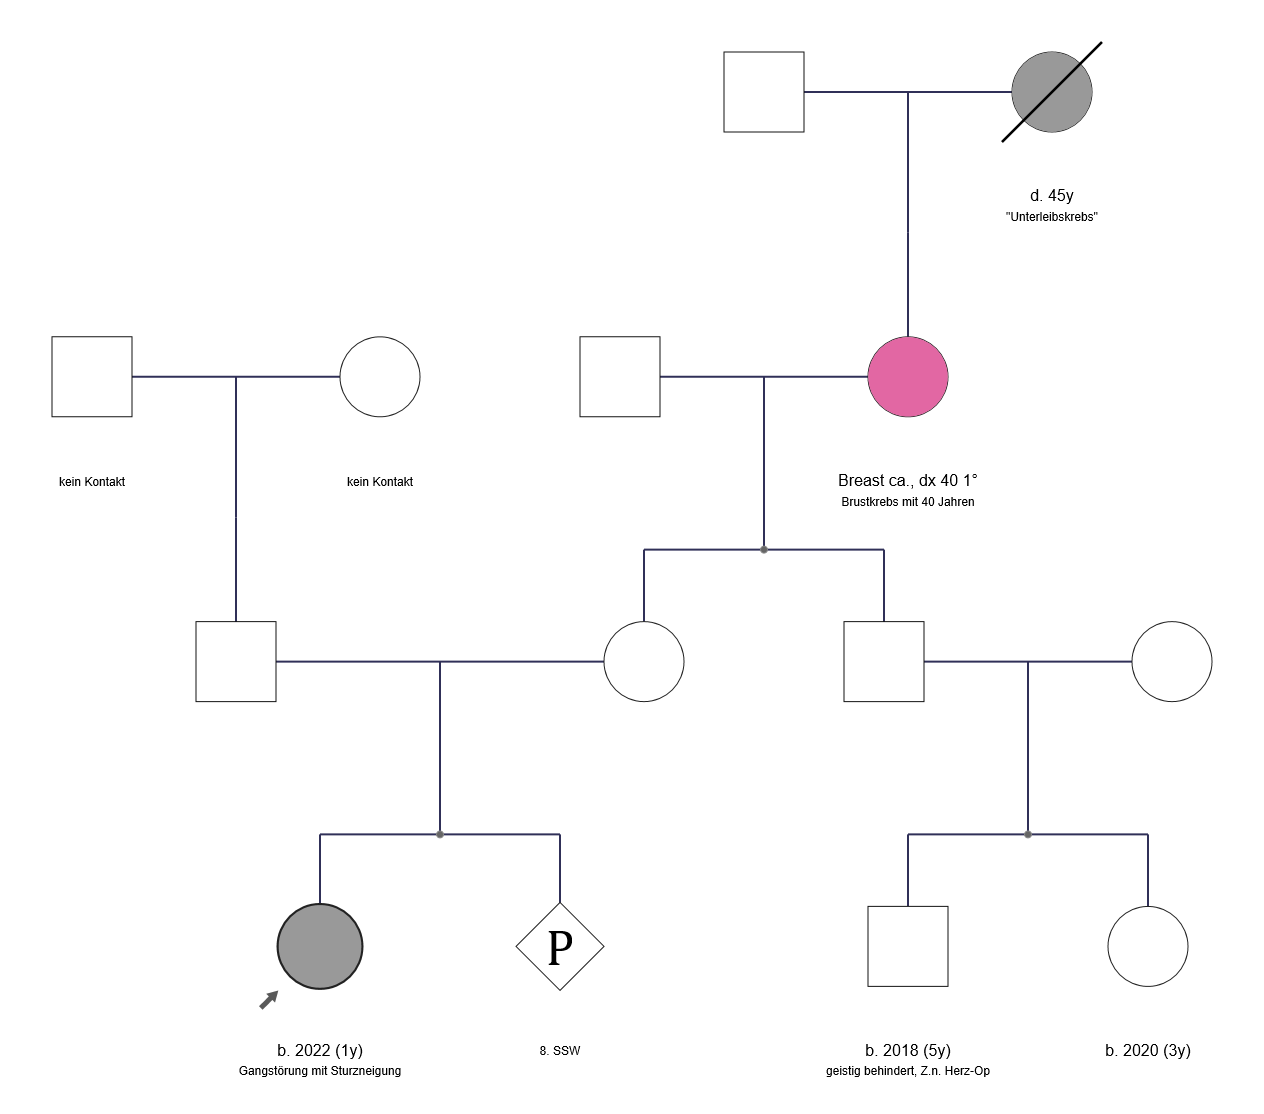
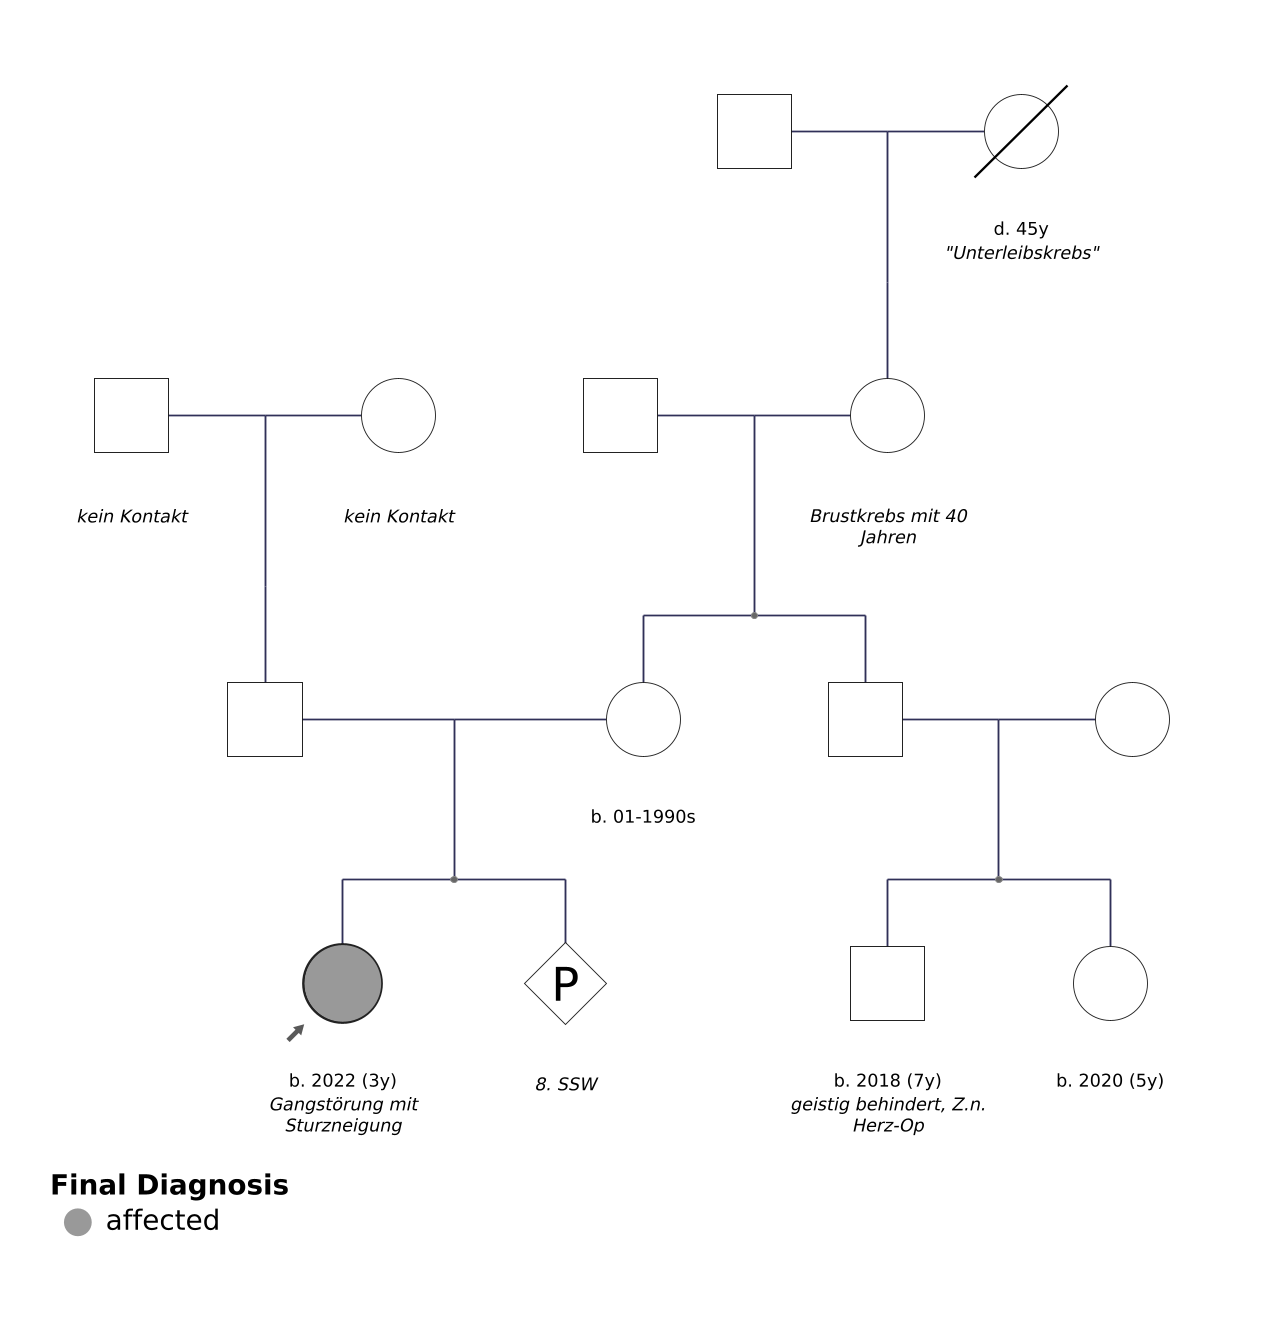
ITD-3846 | updated hboc pedigree

diff --git a/pages/hboc/markdown/hboc_part_5.md b/pages/hboc/markdown/hboc_part_5.md
@@ -7,7 +7,7 @@ Wir können der Mutter des Indexpatienten eine Risikoberechnung mittels [CanRisk
 
 Für die Risikoberechnung benötigen wir noch einige Daten von der Ratsuchenden:
 
-* *01.01.1988, 35 Jahre alt
+* *01.01.1990, 35 Jahre alt
 * 162cm, 65 kg
 * Vor der Schwangerschaft trank Sie täglich 3 Gläser Wein und wöchentlich einen Shot.
 * Sie hatte ihre erste Periode mit 12 Jahren und nimmt 15 und mehr Jahre die Antibabypille (seit 2 Jahren abgesetzt).
